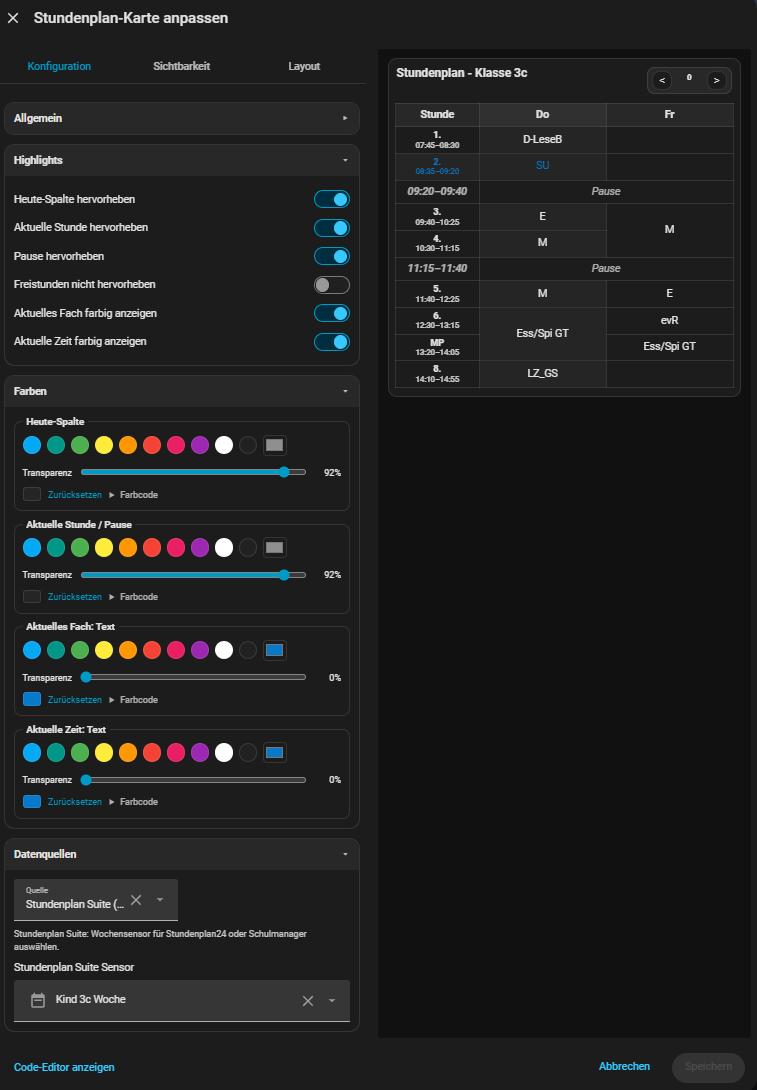
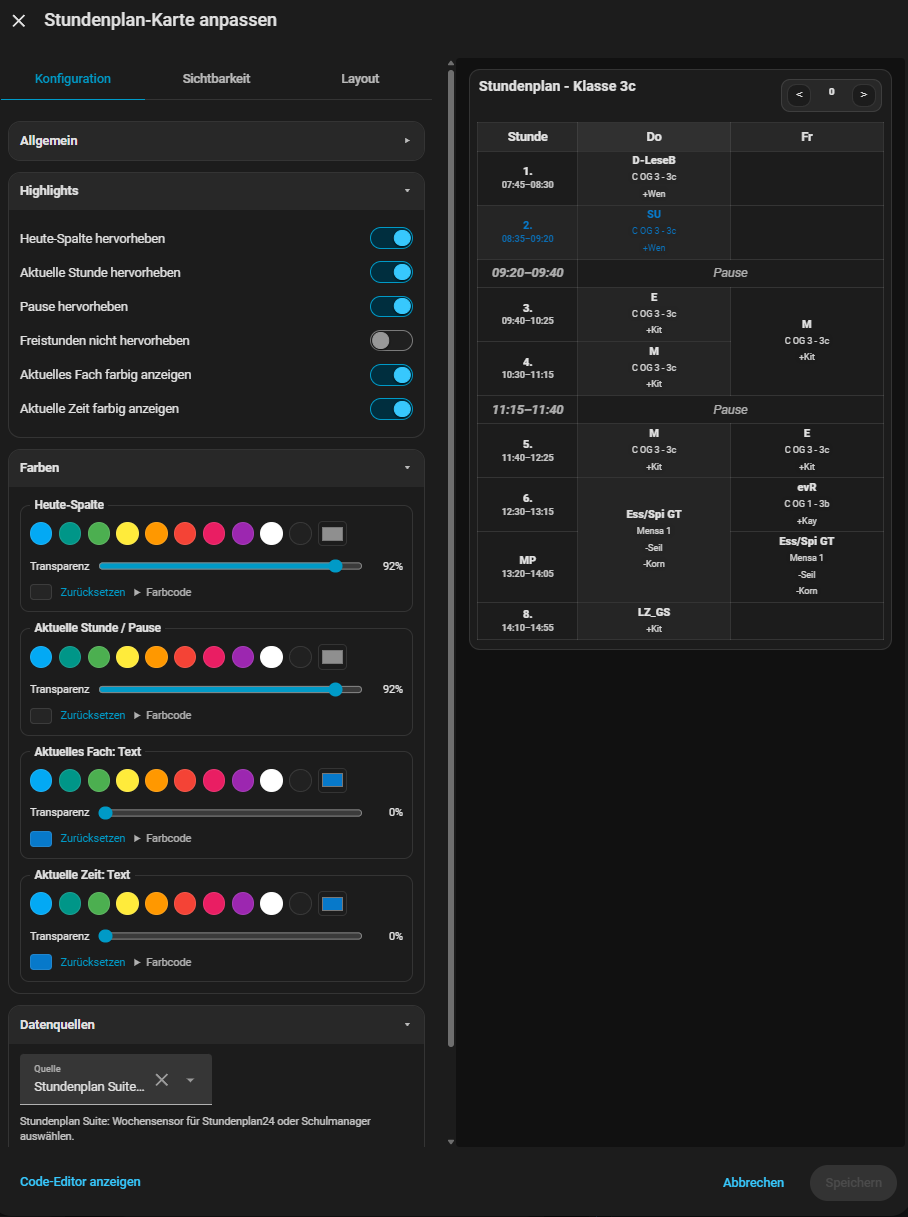
Replace rolling and editor examples with combined screenshot

diff --git a/README.md b/README.md
@@ -59,23 +59,21 @@ Stundenplan Suite an und kann den aktuellen Unterricht hervorheben.
 
 Aktuelle Beispiele aus Home Assistant mit Schulmanager-Daten über die Stundenplan Suite.
 
-| Wochenansicht | Ab heute (rolling) |
-| --- | --- |
-| [![Wochenansicht mit Pausen, verbundenen Folgestunden und aktuellem Unterricht](docs/screenshots/week.png)](docs/screenshots/week.png) | [![Kompakte Rolling-Ansicht mit Donnerstag und Freitag](docs/screenshots/rolling.png)](docs/screenshots/rolling.png) |
+### Wochenansicht
 
-Die Wochenansicht zeigt alle Schultage. Die Rolling-Ansicht zeigt die ausgewählten
-Tage ab dem aktuellen Starttag. Beide Beispiele nutzen verbundene Folgestunden;
-in der Rolling-Ansicht sind zusätzlich leere Endstunden ausgeblendet.
+[![Wochenansicht mit Pausen, verbundenen Folgestunden und aktuellem Unterricht](docs/screenshots/week.png)](docs/screenshots/week.png)
 
-<details>
-<summary>Editor und Farbeinstellungen</summary>
+Alle Schultage im Überblick, mit Pausen, verbundenen Folgestunden und
+Hervorhebung des aktuellen Unterrichts.
+
+### Ab heute (rolling) und Farbeinstellungen
 
 Highlights, Farbpalette und Transparenz lassen sich direkt im visuellen Editor
-einstellen. Unter Datenquellen ist hier der Wochensensor der Suite ausgewählt.
+einstellen. Die Vorschau zeigt Donnerstag und Freitag mit Raum- und
+Lehrerangaben, verbundenen Folgestunden und ausgeblendeten leeren Endstunden.
+Als Datenquelle ist die Stundenplan Suite ausgewählt.
 
-[![Visueller Editor mit Highlights, Farbpalette, Transparenz und Suite-Datenquelle](docs/screenshots/editor.png)](docs/screenshots/editor.png)
-
-</details>
+[![Visueller Editor mit Farbpalette und Rolling-Vorschau inklusive Raum- und Lehrerangaben](docs/screenshots/editor.png)](docs/screenshots/editor.png)
 
 ### Neuer visueller Editor (manueller Stundenplan)
 
